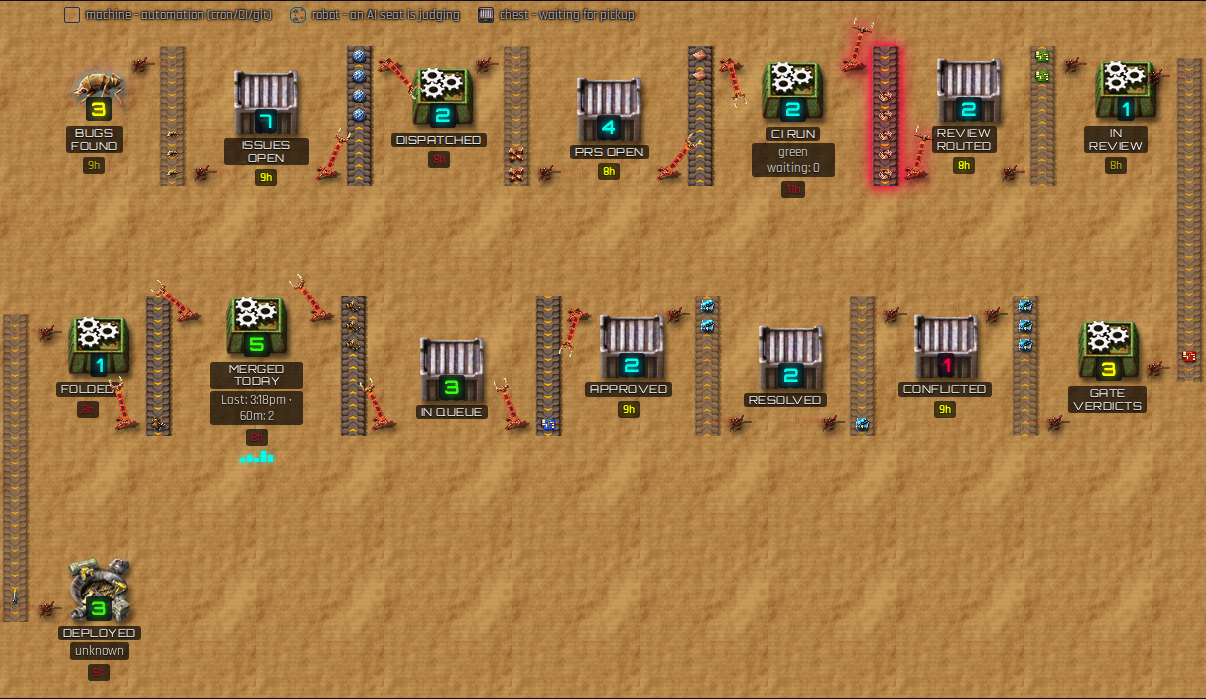
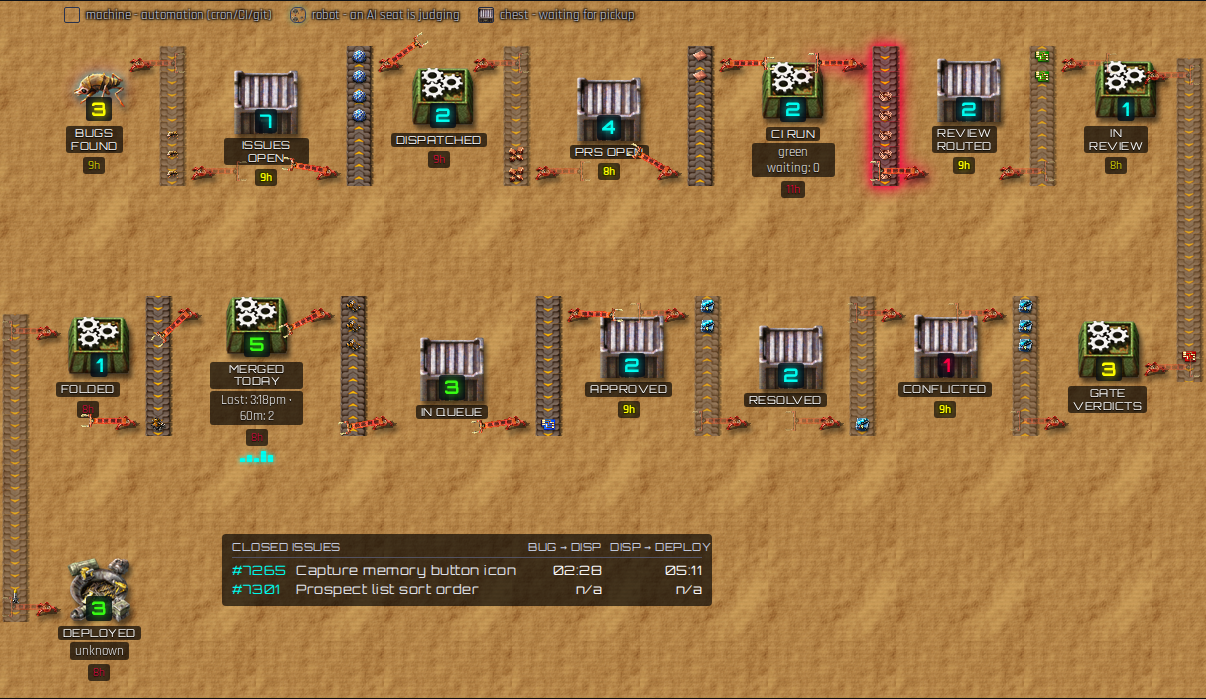
feat(monitor): closed-issues timing list on row 3; 180-degree swing; remnant only when n/a
Ben, three items:

1. "To the right in the open space on row 3, keep a list of the issues
   we've closed with 2 numbers: hh:mm from Bug found to Dispatched and from
   Dispatched to Deployed." Server: _closed_issue_timings - the 10 most
   recently closed issues (closed-issues list + one GraphQL read for the
   closing PRs); bug found = issue created; dispatched = the lane launch
   script's write time when one was recorded, else the first commit on the
   PR that fixed it (there is no per-issue dispatch ledger on disk - only
   a handful of launch scripts from Sep 5 exist); deployed = the first
   green push/dispatch production deploy run that started after that PR
   merged, reusing the deploy runs already fetched this refresh. A leg
   with no measurement is null and renders n/a - never a guess. Verified
   against live GitHub data: e.g. #6976 186:19 / 05:51, #6848 202:19 /
   00:33. Client: .ship-closed panel after DEPLOYED in row 3.
2. "The swing isn't showing the full 180." It was +/-75 around the rest
   angle. Now: --arm-rest is the drop side and pickup is 180 degrees from
   it; the arm sweeps over the top between them. Backed-up freezes at
   pickup.
3. "What does a remnant inserter mean?" It was wrecking every handoff
   with no rate instrument - 8 of 14 - even when the count was known.
   Remnant now means only "count is n/a" (no data at all); a known count
   with no rate shows an intact, idle inserter.
[…]

diff --git a/queue_router.py b/queue_router.py
@@ -5632,6 +5632,83 @@ def _get_merged_today_prs(headers, today, repo=None):
     return [{"number": p["number"], "title": p["title"]} for p in items]
 
 
+def _closed_issue_timings(headers, repo, deploy_runs, limit=10):
+    """Recently closed issues with the two durations Ben asked for on row 3:
+    bug found (issue created) -> dispatched (the lane launch script for that
+    issue was written), and dispatched -> deployed (the first green
+    push/dispatch production deploy run that started after the closing PR
+    merged, taken as finished at that run's updated_at). A leg that cannot
+    be measured is None - never a guess. Two GitHub reads: the closed-issues
+    list and one GraphQL query for the closing PRs; deploy runs come from
+    the deploys-today scan already done this refresh."""
+    r = requests.get(f"https://api.github.com/repos/{repo}/issues",
+                     params={"state": "closed", "sort": "updated", "direction": "desc", "per_page": 30},
+                     headers=headers, timeout=8)
+    r.raise_for_status()
+    issues = [i for i in r.json() if "pull_request" not in i][:limit]
+    if not issues:
+        return []
+    owner, name = repo.split("/", 1)
+    fields = " ".join(
+        f'i{k}:issue(number:{int(i["number"])})'
+        '{closedByPullRequestsReferences(first:3){nodes{number mergedAt commits(first:1){nodes{commit{committedDate}}}}}}'
+        for k, i in enumerate(issues))
+    query = "query($owner:String!,$name:String!){repository(owner:$owner,name:$name){" + fields + "}}"
+    g = requests.post("https://api.github.com/graphql", json={"query": query, "variables": {"owner": owner, "name": name}},
+                      headers=headers, timeout=8)
+    g.raise_for_status()
+    rows = ((g.json().get("data") or {}).get("repository") or {})
+
+    def parse(ts):
+        return datetime.strptime(ts, "%Y-%m-%dT%H:%M:%SZ").replace(tzinfo=timezone.utc) if ts else None
+
+    def fmt(dt):
+        return dt.strftime("%Y-%m-%dT%H:%M:%SZ") if dt else None
+
+    def mins(a, b):
+        return int((b - a).total_seconds() // 60) if a and b and b >= a else None
+
+    deploys = sorted(
+        ((parse(x.get("run_started_at") or x.get("created_at")), x) for x in (deploy_runs or [])
+         if x.get("conclusion") == "success" and x.get("event") in ("push", "workflow_dispatch")
+         and (x.get("run_started_at") or x.get("created_at"))),
+        key=lambda pair: pair[0])
+    out = []
+    for k, i in enumerate(issues):
+        n = int(i["number"])
+        created = parse(i.get("created_at"))
+        prs = (((rows.get(f"i{k}") or {}).get("closedByPullRequestsReferences") or {}).get("nodes") or [])
+        merged = min((parse(p.get("mergedAt")) for p in prs if p.get("mergedAt")), default=None)
+        # "Dispatched": the lane launch script's write time when one was
+        # recorded for this issue (only a handful ever were - there is no
+        # on-disk dispatch ledger per issue), else the first commit on the
+        # PR that closed it - the earliest GitHub-visible sign a worker
+        # started on it. Neither -> n/a, never a guess.
+        dispatched = None
+        launch = f"/workspace/planning/state/issue-{n}-launch.sh" if repo == GITHUB_CI_REPO else None
+        if launch and os.path.exists(launch):
+            dispatched = datetime.fromtimestamp(os.stat(launch).st_mtime, timezone.utc)
+        else:
+            firsts = [parse((((p.get("commits") or {}).get("nodes") or [{}])[0].get("commit") or {}).get("committedDate"))
+                      for p in prs]
+            firsts = [f for f in firsts if f]
+            dispatched = min(firsts) if firsts else None
+        deployed = None
+        if merged:
+            for started, run in deploys:
+                if started >= merged:
+                    deployed = parse(run.get("updated_at")) or started
+                    break
+        out.append({
+            "number": n, "title": (i.get("title") or "")[:80],
+            "created_at": i.get("created_at"), "closed_at": i.get("closed_at"),
+            "dispatched_at": fmt(dispatched), "merged_at": fmt(merged), "deployed_at": fmt(deployed),
+            "bug_to_dispatch_min": mins(created, dispatched),
+            "dispatch_to_deploy_min": mins(dispatched, deployed),
+        })
+    return out
+
+
 def _get_deployed_prs_today(headers, merged_today_prs, deployed_sha, repo):
     """Return today's merged PR numbers whose merge commit is reachable from production.
 
@@ -6107,6 +6184,9 @@ def get_pipeline_status(repo=None, default_branch=None, force_refresh=False):
             dep_ok = dep_fail = dep_live = 0
             live_started_min = None
             dep_days = [0] * 7
+            # Every deploy run seen this refresh (last 7 days) - reused by the
+            # closed-issue timings below, no second fetch.
+            deploy_runs_seen = []
             if deploy_workflow_ids:
                 deploy_url = f"https://api.github.com/repos/{repo}/actions/workflows/{deploy_workflow_ids[0]}/runs"
                 for page in (1, 2, 3):
@@ -6118,6 +6198,7 @@ def get_pipeline_status(repo=None, default_branch=None, force_refresh=False):
                     runs = r.json().get("workflow_runs", [])
                     if not runs:
                         break
+                    deploy_runs_seen.extend(runs)
                     for run in runs:
                         run_ct = None
                         try:
@@ -6222,6 +6303,14 @@ def get_pipeline_status(repo=None, default_branch=None, force_refresh=False):
             except Exception as e:
                 logger.warning("deployed-PR ancestry lookup failed (%s): %s", repo, e)
                 result["deployed_prs_today"], result["deployed_prs_today_list"] = None, []
+            # Ben: the closed-issues list on row 3 - two measured legs per
+            # issue, n/a where a leg has no instrument. Null (not []) when
+            # the read itself failed, so the panel says n/a, never "none".
+            try:
+                result["closed_issue_timings"] = _closed_issue_timings(headers, repo, deploy_runs_seen)
+            except Exception as e:
+                logger.warning("closed-issue timings failed (%s): %s", repo, e)
+                result["closed_issue_timings"] = None
             github_reads_ok = github_fetches_ok and all(result.get(field) is not None for field in (
                 "issues_open", "prs_open", "merged_today", "ci_queued", "ci_running"
             ))
@@ -7327,9 +7416,13 @@ transform-origin:50% 100%;transform:rotate(var(--arm-rest,90deg));transition:tra
 .ship-inserter.moving .inserter-arm{opacity:1;animation-name:inserter-swing;
 animation-timing-function:ease-in-out;animation-iteration-count:infinite;
 animation-duration:var(--swing-duration,1.6s);animation-delay:var(--swing-delay,0s)}
+/* Ben: a real inserter swings the full 180 - pickup on one side of its
+   base, drop on the opposite side. --arm-rest is the DROP side (the belt
+   for a loading inserter, the stage for an unloading one); pickup is the
+   far side, 180 degrees away; the arm sweeps over the top between them. */
 @keyframes inserter-swing{
-0%,100%{transform:rotate(calc(var(--arm-rest,90deg) - 75deg))}
-50%{transform:rotate(calc(var(--arm-rest,90deg) + 75deg))}
+0%,100%{transform:rotate(calc(var(--arm-rest,90deg) - 180deg))}
+50%{transform:rotate(var(--arm-rest,90deg))}
 }
 /* A backed-up (bottleneck) handoff freezes the arm at the pickup end (the
    swing's own 0%/100% extreme) instead of the resting middle - it reached,
@@ -7338,7 +7431,7 @@ animation-duration:var(--swing-duration,1.6s);animation-delay:var(--swing-delay,
    after it so a bottleneck arrow that also happens to have rate>0 still
    freezes rather than swings. */
 .ship-inserter.backed-up .inserter-arm{animation:none!important;opacity:1;
-transform:rotate(calc(var(--arm-rest,90deg) - 75deg))}
+transform:rotate(calc(var(--arm-rest,90deg) - 180deg))}
 @media(prefers-reduced-motion:reduce){.ship-inserter.moving .inserter-arm{animation:none;transform:rotate(var(--arm-rest,90deg))}}
 /* No card border left to color for deploy state (order 11) - the state
    becomes a glow on the sprite itself instead. */
@@ -7670,6 +7763,16 @@ gap:0;padding:2px 0;align-self:center;align-items:center}
    unloading one on the left - mirror the arrow's own row to match the
    row-reversed row it sits in. */
 .ship-row-2 .ship-arrow-vbelt{flex-direction:row-reverse}
+/* Row 3's closed-issues list (Ben) - same dark plate as the captions. */
+.ship-closed{align-self:flex-start;margin-left:48px;margin-top:8px;background:rgba(0,0,0,.66);border-radius:4px;
+padding:6px 10px;color:#fff;font-size:.72em;font-family:'Orbitron',monospace;letter-spacing:.5px;min-width:380px;max-width:560px}
+.ship-closed-head{display:grid;grid-template-columns:1fr 78px 92px;gap:8px;text-transform:uppercase;color:#c7cee0;
+font-size:.85em;border-bottom:1px solid #556;padding-bottom:3px;margin-bottom:3px;white-space:nowrap}
+.ship-closed-row{display:grid;grid-template-columns:56px 1fr 78px 92px;gap:8px;line-height:1.5;white-space:nowrap}
+.ship-closed-title{overflow:hidden;text-overflow:ellipsis;color:#e6e9f0}
+.ship-closed-num{color:var(--neon-cyan)}
+.ship-closed-t{text-align:right;font-variant-numeric:tabular-nums}
+.ship-closed-na{color:#aab;grid-template-columns:1fr}
 /* The belt itself: a scrolling texture tile carrying the order-17 item
    chain. State is rendered, never captioned - order 9's "hover is where the
    numbers live" (native title attr on the arrow, unchanged). LORE order 17
@@ -8600,6 +8703,29 @@ function driveAssemblerAnim(d) {
     asmTimer = setInterval(() => { asmFrame = (asmFrame + 1) % (ASM_COLS * ASM_ROWS); setFrame(asmFrame); }, interval);
 }
 
+// Ben: "to the right in the open space on row 3, keep a list of all the
+// issues we've closed with 2 numbers: time (hh:mm) from Bug found to
+// dispatched and from Dispatched to Deployed." Minutes come measured from
+// the server (closed_issue_timings); a null leg renders n/a, never a guess.
+function shipMinsHM(m) {
+    if (m === null || m === undefined) return 'n/a';
+    const h = Math.floor(m / 60), mm = m % 60;
+    return String(h).padStart(2, '0') + ':' + String(mm).padStart(2, '0');
+}
+function shipClosedIssuesHtml(list) {
+    const title = 'CLOSED ISSUES - hours:minutes from bug found (issue created) to dispatched (the lane launch when one was recorded, else the first commit on the PR that fixed it), and from dispatched to deployed (the first green production deploy that started after that PR merged). n/a = that leg has no measurement.';
+    let rows;
+    if (list === null || list === undefined) rows = '<div class="ship-closed-row ship-closed-na">n/a</div>';
+    else if (!list.length) rows = '<div class="ship-closed-row ship-closed-na">none closed recently</div>';
+    else rows = list.map(r => '<div class="ship-closed-row">'
+        + '<span class="ship-closed-num">#' + r.number + '</span>'
+        + '<span class="ship-closed-title">' + shipEscape(r.title || '') + '</span>'
+        + '<span class="ship-closed-t">' + shipMinsHM(r.bug_to_dispatch_min) + '</span>'
+        + '<span class="ship-closed-t">' + shipMinsHM(r.dispatch_to_deploy_min) + '</span></div>').join('');
+    return '<div class="ship-closed" title="' + title + '">'
+        + '<div class="ship-closed-head"><span>closed issues</span><span class="ship-closed-t">bug &rarr; disp</span><span class="ship-closed-t">disp &rarr; deploy</span></div>'
+        + rows + '</div>';
+}
 function shipLegendHtml() {
     return '<div class="ship-legend">'
         + '<div class="ship-legend-chip"><span class="ship-legend-swatch stage-machine"></span>machine - automation (cron/CI/git)</div>'
@@ -8899,6 +9025,13 @@ function shipArrow(square, glyph, arrow, description, legacyCount, width, isBott
     // inserter sits at the belt's own beginning (top if flowing down, bottom
     // if flowing up) or end (the opposite), never centered beside it.
     const vDown = !vertical || elbowId ? true : shipVbeltFlowsDown(square);
+    // Ben asked what "remnant" means: it is NOT time-based - it is the wreck
+    // sprite for a handoff we have no measurement for at all (the count is
+    // n/a). A handoff with a plain count but no rate instrument shows an
+    // intact, idle (open-hand, still) inserter instead; only a measured
+    // rate makes it swing. Before this it wrecked every un-instrumented
+    // arrow even when the count was known.
+    const noData = !hasRate && knownCount === null;
     const loadAlign = (vertical && !elbowId) ? (vDown ? 'align-top' : 'align-bottom') : null;
     const unloadAlign = (vertical && !elbowId) ? (vDown ? 'align-bottom' : 'align-top') : null;
     return '<' + tag + (agentLane ? ' type="button"' : ' role="img"') + ' class="ship-arrow' + (isBottleneck ? ' bottleneck' : '') + dirCls + '"'
@@ -8910,9 +9043,9 @@ function shipArrow(square, glyph, arrow, description, legacyCount, width, isBott
         // (upstream, places items on) then unloading (downstream, takes them
         // off) - same rate/backedUp/unknown state on both, but each gets its
         // own phase seed so they are never mirror-synced.
-        + shipInserterHtml(rateForSpeed, armRest, !hasRate, square + '-load', isBottleneck, duration, loadAlign)
+        + shipInserterHtml(rateForSpeed, armRest, noData, square + '-load', isBottleneck, duration, loadAlign)
         + shipBeltHtml(square, hasRate, rateForSpeed, isBottleneck, knownCount, dir, vertical, vDown, backlog)
-        + shipInserterHtml(rateForSpeed, armRest, !hasRate, square + '-unload', isBottleneck, duration, unloadAlign)
+        + shipInserterHtml(rateForSpeed, armRest, noData, square + '-unload', isBottleneck, duration, unloadAlign)
         + '</' + tag + '>';
 }
 
@@ -9449,6 +9582,7 @@ const SHIP_BLANK_PIPELINE = {
     last_deploy_at: null, last_deploy_sha: null, deploy_configured: null, deploy_state: null,
     deploy_next_tick_at: null, deploy_run_sha: null,
     deployed_prs_today: null, deployed_prs_today_list: [],
+    closed_issue_timings: null,
     spark12h: {}, arrows: [], folded: null, folded_last_at: null,
 };
 function shipFlowHtml(d) {
@@ -9664,7 +9798,8 @@ function shipFlowHtml(d) {
         // Row 3: deployed, alone for now (Ben: "it's ok if the bottom row
         // only has 1 or two" - more steps are expected to land here).
         const row3 =
-            shipStage(noDeploy ? 'n/a' : (d.deployed_prs_today === null || d.deployed_prs_today === undefined ? '?' : d.deployed_prs_today), 'last deploy', 'ok', deployLastLine, null, (noDeploy ? 'no deploy workflow on ' + (d.repo_name || d.repo_full || 'this repo') : HELP.lastdep + shipOldestWords('last deploy', 'minutes since the last deploy, counted only while main has commits newer than it') + deployWords), deployStateCls, 'last-deploy', (d.deployed_prs_today_list || []).map(n => ({number:n,title:'deployed'})), 'deployed', shipHistorySpark(sp.deploy, 'deploy'), null, null, d.last_deploy_at);
+            shipStage(noDeploy ? 'n/a' : (d.deployed_prs_today === null || d.deployed_prs_today === undefined ? '?' : d.deployed_prs_today), 'last deploy', 'ok', deployLastLine, null, (noDeploy ? 'no deploy workflow on ' + (d.repo_name || d.repo_full || 'this repo') : HELP.lastdep + shipOldestWords('last deploy', 'minutes since the last deploy, counted only while main has commits newer than it') + deployWords), deployStateCls, 'last-deploy', (d.deployed_prs_today_list || []).map(n => ({number:n,title:'deployed'})), 'deployed', shipHistorySpark(sp.deploy, 'deploy'), null, null, d.last_deploy_at)
+            + shipClosedIssuesHtml(d.closed_issue_timings);
 
         // Round 2 (Elrond review, PR #35, defect 3): the turns used to be a
         // bare glyph in a full-width flow div, text-aligned - which read as

diff --git a/tests/dashboard-truth/factorio-belts-evidence.py b/tests/dashboard-truth/factorio-belts-evidence.py
@@ -48,6 +48,13 @@ pipeline_fixture = dict(
     last_deploy_sha='b494d7e', last_deploy_at='2026-09-11T20:20:00Z',
     deployed_prs_today=3, deployed_prs_today_list=[101, 102, 103],
     green_waiting=0, green_waiting_prs=[],
+    # Ben's row-3 closed-issues list: one issue with both legs measured, one
+    # with neither (a lane never launched for it) - the second must render
+    # n/a twice, never a guess.
+    closed_issue_timings=[
+        {'number': 7265, 'title': 'Capture memory button icon', 'bug_to_dispatch_min': 148, 'dispatch_to_deploy_min': 311},
+        {'number': 7301, 'title': 'Prospect list sort order', 'bug_to_dispatch_min': None, 'dispatch_to_deploy_min': None},
+    ],
     arrows=[
         {'key': 'issues-prs', 'rate_per_hour': 6, 'backlog': 4, 'drain_hours': 0.7},
         {'key': 'prs-ci', 'rate_per_hour': 3, 'backlog': 2, 'drain_hours': 0.7},
@@ -248,6 +255,17 @@ with sync_playwright() as p:
     for sq in ('in review', 'folded'):
         assert not flows_up(sq), (sq, 'row-end belt must flow down')
 
+    # Ben's closed-issues list on row 3: hh:mm for each measured leg, n/a for
+    # an unmeasured one - and it sits to the right of DEPLOYED on row 3.
+    closed = page.locator('.ship-row-3 .ship-closed')
+    assert closed.count() == 1
+    closed_text = closed.inner_text()
+    assert '#7265' in closed_text and '02:28' in closed_text and '05:11' in closed_text, closed_text
+    assert '#7301' in closed_text and closed_text.count('n/a') >= 2, closed_text
+    deployed_box = page.locator('[data-square="last deploy"]').bounding_box()
+    closed_box = closed.bounding_box()
+    assert closed_box['x'] > deployed_box['x'] + deployed_box['width'], (closed_box, deployed_box)
+
     # Round 2 (Elrond review, PR #35, defect 1): no stage may ever render a
     # bare '?' - it reads as indistinguishable from the no-data wreckage state
     # the sprite/remnant already carries. Every one of the 15 stages gets a
@@ -337,6 +355,20 @@ with sync_playwright() as p:
     assert issues_arm['duration'] != prsci_arm['duration'], (issues_arm, prsci_arm)
     assert issues_arm['delay'] != prsci_arm['delay'], (issues_arm, prsci_arm)
     assert dispatched_arm['name'] == 'none', dispatched_arm
+    # Ben asked what "remnant" means: not time-based - the wreck sprite only
+    # when the handoff's count is n/a. 'dispatched' has a plain count (2) and
+    # no rate instrument, so its inserters are intact and idle, not wrecked;
+    # 'resolved' (count n/a in this fixture) is the one that wrecks.
+    dispatched_cls = page.locator('.ship-arrow[data-square-left="dispatched"] > .ship-inserter').nth(0).get_attribute('class')
+    assert 'remnant' not in dispatched_cls and 'idle' in dispatched_cls, dispatched_cls
+    resolved_cls = page.locator('.ship-arrow[data-square-left="resolved"] > .ship-inserter').nth(0).get_attribute('class')
+    assert 'remnant' in resolved_cls, resolved_cls
+    # Ben: the swing is the full 180 - pickup one side of the base, drop on
+    # the other. Read the keyframe rule itself: its two extremes are 180deg
+    # apart.
+    kf = page.evaluate('''() => { for (const ss of document.styleSheets) { let rules; try { rules = ss.cssRules; } catch (e) { continue; }
+        for (const r of rules) { if (r.type === CSSRule.KEYFRAMES_RULE && r.name === 'inserter-swing') return Array.from(r.cssRules).map(k => k.keyText + ' ' + k.style.transform); } } return null; }''')
+    assert kf and any('- 180deg' in k for k in kf) and any('50% rotate(var(--arm-rest' in k for k in kf), kf
     # ci-green is the fixture's bottleneck (rate 0, backlog 5) - BOTH its
     # inserters (loading and unloading) must freeze at the pickup end, not
     # swing, even though the arrow IS measured. A single frozen arm on a
